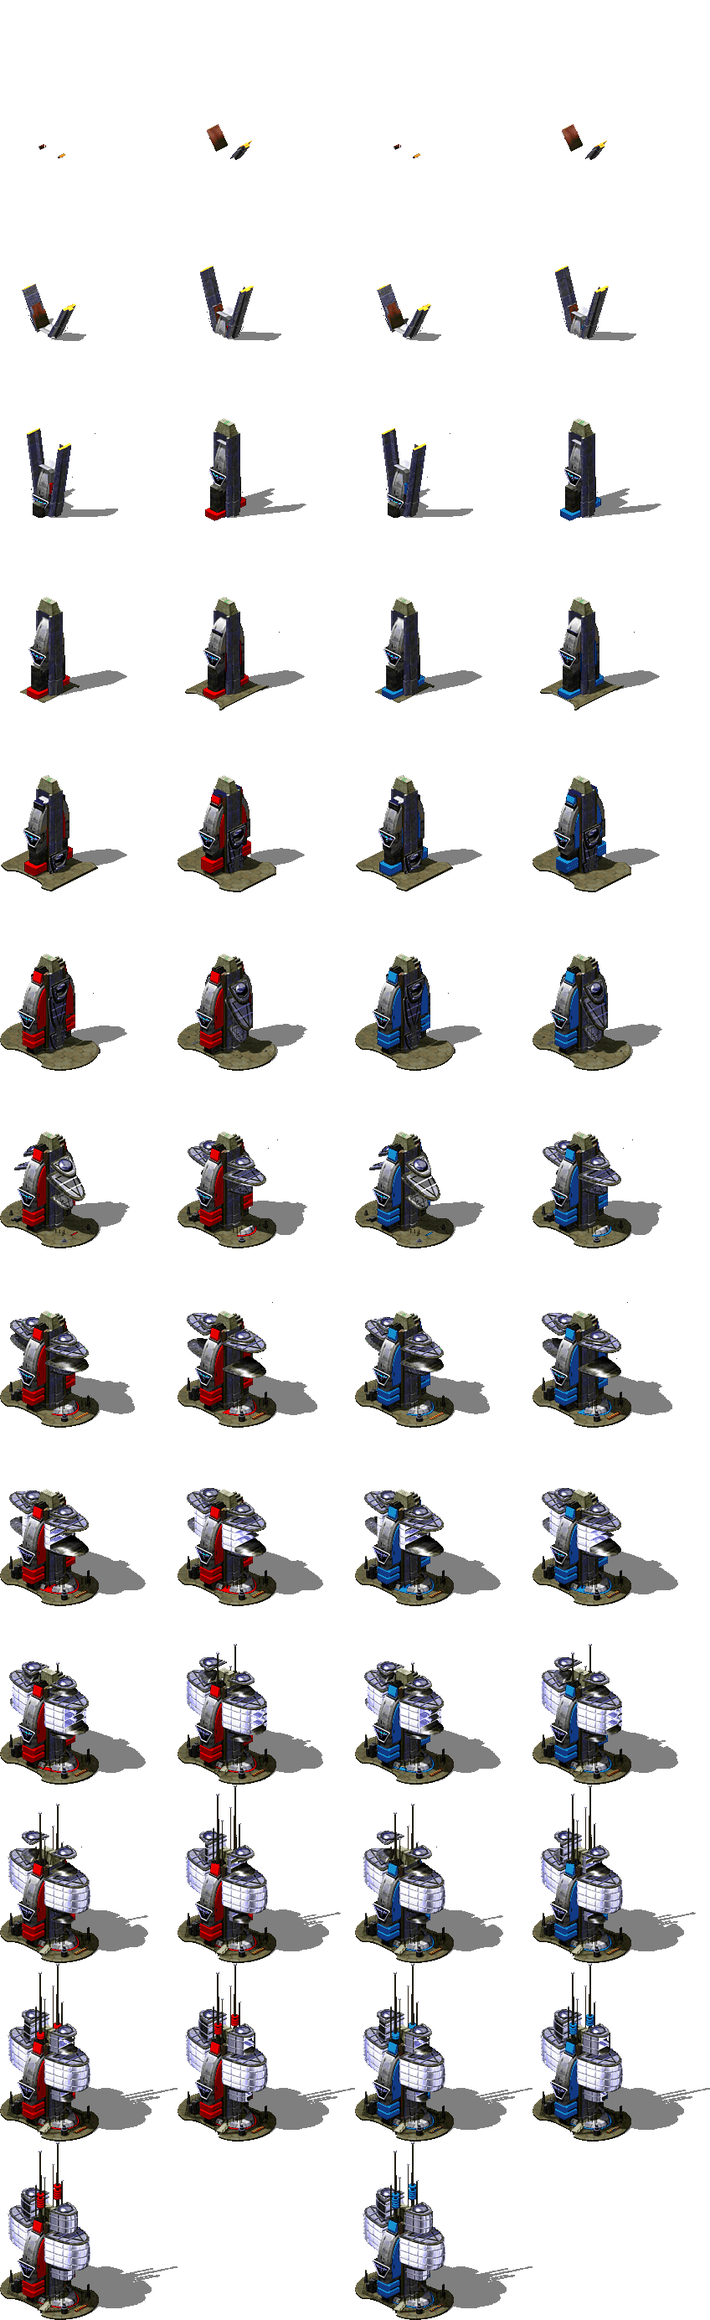
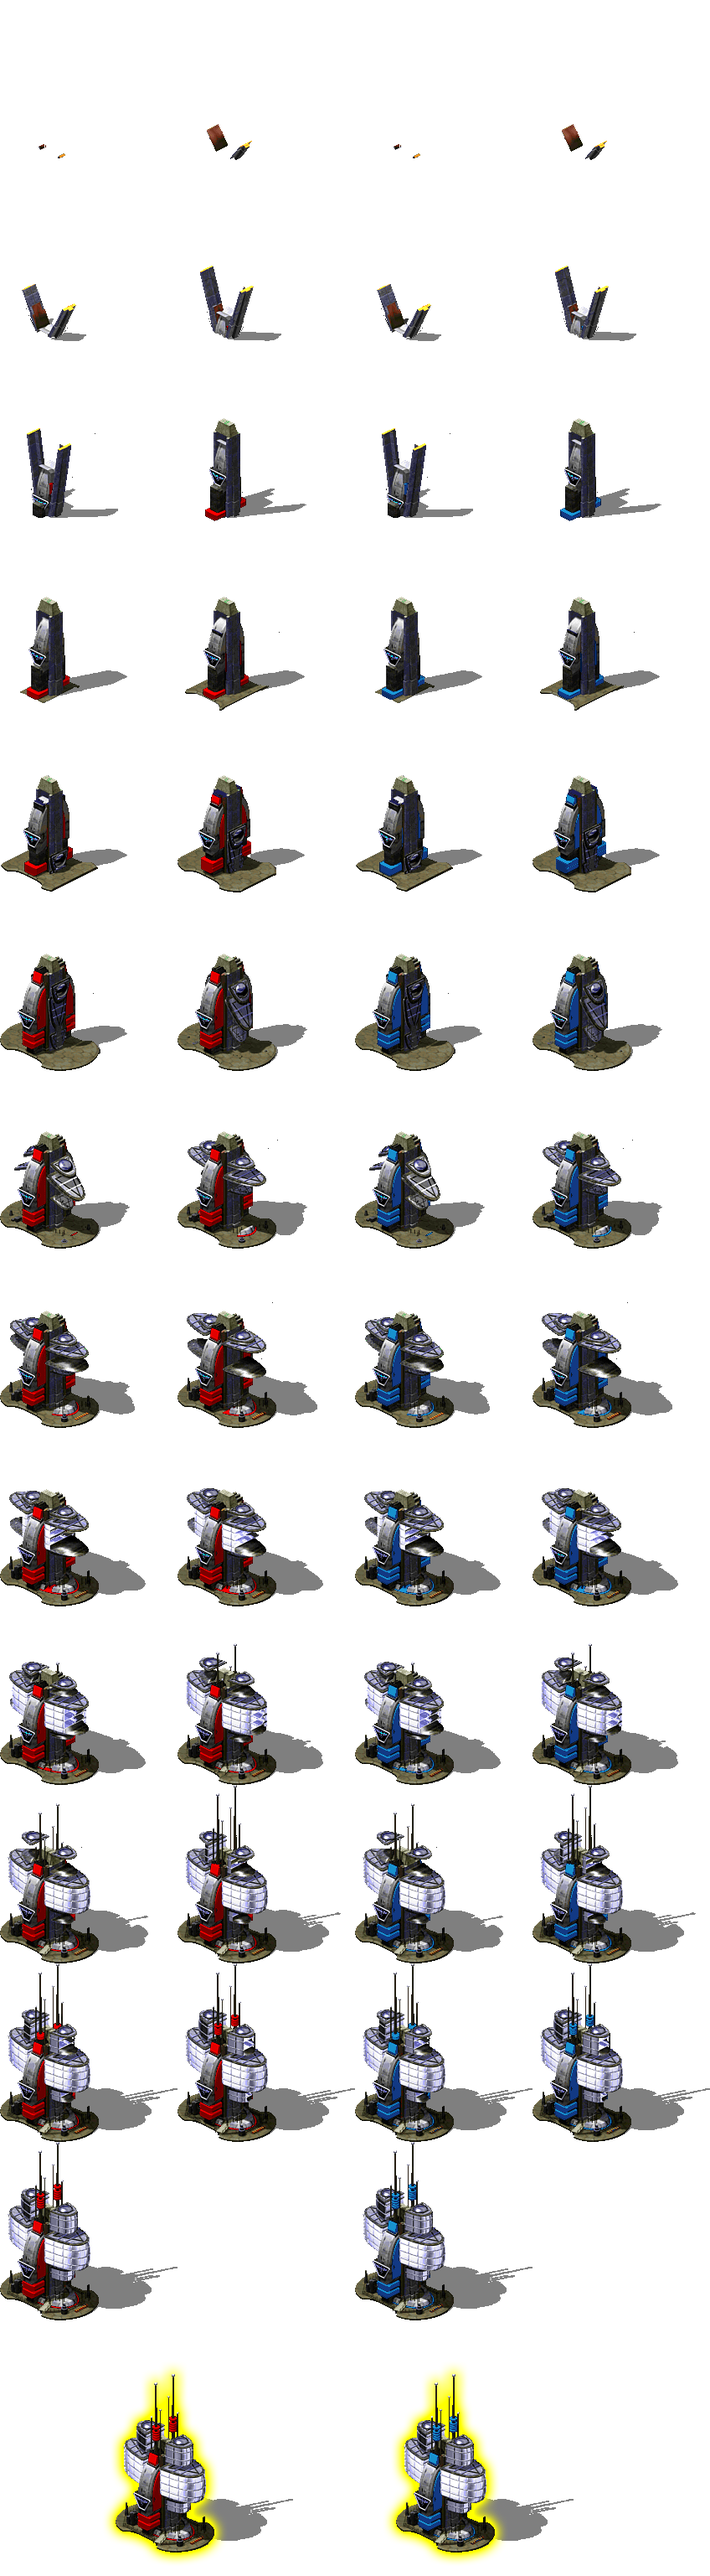
Nearly all glow building sprites implemented

diff --git a/Base/Motor2D/Player.cpp b/Base/Motor2D/Player.cpp
@@ -218,12 +218,8 @@ bool Player::Update(float dt)
 		// DRAW QUAD on SELECTED BUILDING 
 		if (currentUI == CURRENT_UI::CURR_SELECTING_BUILDING)
 		{
-
 			if (In_SelectBuilding->visible == false)
-				In_SelectBuilding->visible = true;
-			
-			DrawBuildingCollider((*building_selected)->type, isPlayer1);
-			
+				In_SelectBuilding->visible = true;			
 		}
 		else
 		{
@@ -1848,57 +1844,4 @@ void Player::UpdateGeneralUI(Entity* building)
 
 }
 
-void Player::DrawBuildingCollider(int type, bool isPlayer1)
-{
-	
-	if(type == Entity::entityType::TOWNHALL && isPlayer1 == true)
-	{
-		selected_texture.x = (*building_selected)->position.first - ((*building_selected)->collider.dimensions.first * 20);
-		selected_texture.y = (*building_selected)->position.second - (*building_selected)->Current_Animation->frames->h + ((*building_selected)->collider.dimensions.second * 20);
-		selected_texture.w = (*building_selected)->Current_Animation->frames->w;
-		selected_texture.h = (*building_selected)->Current_Animation->frames->h;
-	}
-	else if (type == Entity::entityType::TOWNHALL && isPlayer1 == false)
-	{
-		selected_texture.x = (*building_selected)->position.first - ((*building_selected)->collider.dimensions.first * 8);
-		selected_texture.y = (*building_selected)->position.second - (*building_selected)->Current_Animation->frames->h + ((*building_selected)->collider.dimensions.second * 40);
-		selected_texture.w = (*building_selected)->Current_Animation->frames->w;
-		selected_texture.h = (*building_selected)->Current_Animation->frames->h;
-	}
-	else if (type == Entity::entityType::MINES)
-	{
-		selected_texture.x = (*building_selected)->position.first - ((*building_selected)->collider.dimensions.first * 20);
-		selected_texture.y = (*building_selected)->position.second - (*building_selected)->Current_Animation->frames->h + ((*building_selected)->collider.dimensions.second * 20);
-		selected_texture.w = (*building_selected)->Current_Animation->frames->w;
-		selected_texture.h = (*building_selected)->Current_Animation->frames->h;
-	}
-	else if (type == Entity::entityType::BARRACKS)
-	{
-		selected_texture.x = (*building_selected)->position.first - ((*building_selected)->collider.dimensions.first * 20);
-		selected_texture.y = (*building_selected)->position.second - (*building_selected)->Current_Animation->frames->h + ((*building_selected)->collider.dimensions.second * 20);
-		selected_texture.w = (*building_selected)->Current_Animation->frames->w;
-		selected_texture.h = (*building_selected)->Current_Animation->frames->h;
-		(*building_selected)->Current_Animation = (*building_selected)->glow; 
-	}
-	else if (type == Entity::entityType::DEFENSE_AOE)
-	{
-		selected_texture.x = (*building_selected)->position.first - ((*building_selected)->collider.dimensions.first * 20);
-		selected_texture.y = (*building_selected)->position.second - (*building_selected)->Current_Animation->frames->h + ((*building_selected)->collider.dimensions.second * 20);
-		selected_texture.w = (*building_selected)->Current_Animation->frames->w;
-		selected_texture.h = (*building_selected)->Current_Animation->frames->h;
-		(*building_selected)->Current_Animation = (*building_selected)->glow;
-	}
-	else
-	{
-		selected_texture.x = (*building_selected)->position.first;
-		selected_texture.y = (*building_selected)->position.second - (*building_selected)->Current_Animation->frames->h + ((*building_selected)->collider.dimensions.second * 20);
-		selected_texture.w = (*building_selected)->Current_Animation->frames->w;
-		selected_texture.h = (*building_selected)->Current_Animation->frames->h;
-	}
-
-	//if (isPlayer1)
-	//	App->render->DrawQuad(selected_texture, 255, 0, 0, 100, true);
-	//else
-	//	App->render->DrawQuad(selected_texture, 0, 0, 255, 100, true);
-}
 

diff --git a/Base/Motor2D/MainDefense.cpp b/Base/Motor2D/MainDefense.cpp
@@ -195,6 +195,34 @@ bool MainDefense::Update(float dt)
 
 	ChangeAnimation(closest);
 
+	if (fromPlayer1)
+	{
+		if (App->player1->currentUI == Player::CURRENT_UI::CURR_SELECTING_BUILDING && App->player1->GetSelectedBuilding() == this)
+		{
+			if (building->Finished())
+				Current_Animation = glow;
+		}
+		else
+		{
+			if (building->Finished())
+				Current_Animation = idle;
+		}
+	}
+	else
+	{
+		if (App->player2->currentUI == Player::CURRENT_UI::CURR_SELECTING_BUILDING && App->player2->GetSelectedBuilding() == this)
+		{
+			if (building->Finished())
+				Current_Animation = glow;
+		}
+		else
+		{
+			if (building->Finished())
+				Current_Animation = idle;
+		}
+	}
+
+
 	Building::Update(dt);
 
 
@@ -210,19 +238,7 @@ void MainDefense::CleanUp()
 
 void MainDefense::LoadAnimations(bool isPlayer1, string path)
 {
-	//moving = vector<Animation*>(entityDir::MAX, nullptr);
 	shooting = vector<Animation*>(TroopDir::MAX_DIR, nullptr);
-
-	//idle = idle->LoadAnimation(path.data(), (isPlayer1) ? "red_constructing" : "blue_constructing");
-
-	/*moving[NORTH] = moving[NORTH]->LoadAnimation(path.data(), (isPlayer1) ? "red_north" : "blue_north");
-	moving[SOUTH] = moving[SOUTH]->LoadAnimation(path.data(), (isPlayer1) ? "red_south" : "blue_south");
-	moving[EAST] = moving[EAST]->LoadAnimation(path.data(), (isPlayer1) ? "red_east" : "blue_east");
-	moving[WEST] = moving[WEST]->LoadAnimation(path.data(), (isPlayer1) ? "red_west" : "blue_west");
-	moving[NORTHEAST] = moving[NORTHEAST]->LoadAnimation(path.data(), (isPlayer1) ? "red_northeast" : "blue_northeast");
-	moving[NORTHWEST] = moving[NORTHWEST]->LoadAnimation(path.data(), (isPlayer1) ? "red_northwest" : "blue_northwest");
-	moving[SOUTHEAST] = moving[SOUTHEAST]->LoadAnimation(path.data(), (isPlayer1) ? "red_southeast" : "blue_southeast");
-	moving[SOUTHWEST] = moving[SOUTHWEST]->LoadAnimation(path.data(), (isPlayer1) ? "red_southwest" : "blue_southwest");*/
 
 	shooting[NORTH] = shooting[NORTH]->LoadAnimation(path.data(), (isPlayer1) ? "red_N" : "blue_N");
 	shooting[SOUTH] = shooting[SOUTH]->LoadAnimation(path.data(), (isPlayer1) ? "red_S" : "blue_S");
@@ -250,15 +266,18 @@ void MainDefense::LoadAnimations(bool isPlayer1, string path)
 
 	building = building->LoadAnimation(path.data(), (isPlayer1) ? "red_constructing" : "blue_constructing");
 	level1 = level1->LoadAnimation(path.data(), (isPlayer1) ? "red_NE" : "blue_SW");
-	
+	glow = glow->LoadAnimation(path.data(), (isPlayer1) ? "red_glow" : "blue_glow");
+
+
 	idle->speed = 0;
 	level1->speed = 10;
 	building->speed = 10;
-
+	glow->speed = 0; 
 
 	idle->loop = false;
 	building->loop = false;
 	level1->loop = false;
+	glow->loop = false;
 	Current_Animation = building;
 }
 

diff --git a/Base/Motor2D/Mines.cpp b/Base/Motor2D/Mines.cpp
@@ -163,8 +163,32 @@ bool Mines::Update(float dt)
 
 	ChangeAnimation();
 
-	if(Current_Animation->Finished() == true)
-		Current_Animation = level1;
+	if (fromPlayer1)
+	{
+		if (App->player1->currentUI == Player::CURRENT_UI::CURR_SELECTING_BUILDING && App->player1->GetSelectedBuilding() == this)
+		{
+			if (building->Finished())
+				Current_Animation = glow;
+		}
+		else
+		{
+			if (building->Finished())
+				Current_Animation = level1;
+		}
+	}
+	else
+	{
+		if (App->player2->currentUI == Player::CURRENT_UI::CURR_SELECTING_BUILDING && App->player2->GetSelectedBuilding() == this)
+		{
+			if (building->Finished())
+				Current_Animation = glow;
+		}
+		else
+		{
+			if (building->Finished())
+				Current_Animation = level1;
+		}
+	}
 
 	Building::Update(dt);
 
@@ -182,11 +206,16 @@ void Mines::LoadAnimations(bool isPlayer1, string path)
 {
 	building = building->LoadAnimation(path.data(), (isPlayer1) ? "red_constructing" : "blue_constructing");
 	level1 = level1->LoadAnimation(path.data(), (isPlayer1) ? "red_idle" : "blue_idle");
-	//level1->PushBack(building->GetLastAnimationFrame());// level1->LoadAnimation(&path[0], (!isPlayer1) ? "red" : "blue");
+	glow = glow->LoadAnimation(path.data(), (isPlayer1) ? "blue_glow" : "red_glow");
+
 	level1->speed = 3;
 	building->speed = 10;
+	glow->speed = 0; 
+
 	building->loop = false;
 	level1->loop = true;
+	glow->loop = true; 
+
 	Current_Animation = building;
 }
 

diff --git a/Base/Motor2D/Barracks.cpp b/Base/Motor2D/Barracks.cpp
@@ -197,8 +197,31 @@ bool Barracks::Update(float dt)
 
 	ChangeAnimation();
 
-	if (Current_Animation->Finished() == true || Current_Animation != glow)
-		Current_Animation = level1;
+	if (fromPlayer1)
+	{
+		if (App->player1->currentUI == Player::CURRENT_UI::CURR_SELECTING_BUILDING && App->player1->GetSelectedBuilding() == this)
+		{
+			Current_Animation = glow;
+		}
+		else
+		{
+			if (building->Finished())
+				Current_Animation = level1; 
+		}
+	}
+	else
+	{
+		if (App->player2->currentUI == Player::CURRENT_UI::CURR_SELECTING_BUILDING && App->player2->GetSelectedBuilding() == this)
+		{
+			if (building->Finished())
+				Current_Animation = glow;
+		}
+		else
+		{
+			if (building->Finished())
+				Current_Animation = level1;
+		}
+	}
 
 	Building::Update(dt);
 
@@ -208,12 +231,16 @@ bool Barracks::Update(float dt)
 void Barracks::LoadAnimations(bool isPlayer1, string path) {
 	level1 = level1->LoadAnimation(&path[0], (isPlayer1) ? "blue_idle" : "red_idle");
 	building = building->LoadAnimation(&path[0], (isPlayer1) ? "blue_constructing" : "red_constructing");
-	glow = glow->LoadAnimation(&path[0], (isPlayer1) ? "" : "");
+	glow = glow->LoadAnimation(&path[0], (isPlayer1) ? "blue_glow" : "red_glow");
+
 	level1->speed = 5;
 	building->speed = 8;
+	glow->speed = 0; 
 
 	building->loop = false;
+	level1->loop = true;
 	glow->loop = true;
+
 	Current_Animation = building;
 };
 

diff --git a/Base/Motor2D/CommandCenter.cpp b/Base/Motor2D/CommandCenter.cpp
@@ -178,6 +178,33 @@ bool CmdCenter::Update(float dt)
 	
 	ChangeAnimation();
 
+	if (fromPlayer1)
+	{
+		if (App->player1->currentUI == Player::CURRENT_UI::CURR_SELECTING_BUILDING && App->player1->GetSelectedBuilding() == this)
+		{
+			if (building->Finished())
+				Current_Animation = glow;
+		}
+		else
+		{
+			if (building->Finished())
+				Current_Animation = level1;
+		}
+	}
+	else
+	{
+		if (App->player2->currentUI == Player::CURRENT_UI::CURR_SELECTING_BUILDING && App->player2->GetSelectedBuilding() == this)
+		{
+			if (building->Finished())
+				Current_Animation = glow;
+		}
+		else
+		{
+			if (building->Finished())
+				Current_Animation = level1;
+		}
+	}
+
 	Building::Update(dt);
 
 	return true;
@@ -200,8 +227,8 @@ void CmdCenter::CleanUp()
 void CmdCenter::LoadAnimations(bool isPlayer1, string path)
 {
 	building = building->LoadAnimation(path.data(), (isPlayer1) ? "red" : "blue");
-	level1 = level1->LoadAnimation(path.data(), (isPlayer1) ? "red" : "blue");
-	//level1->PushBack(building->GetLastAnimationFrame());// level1->LoadAnimation(&path[0], (!isPlayer1) ? "red" : "blue");
+	level1 = level1->LoadAnimation(path.data(), (isPlayer1) ? "red_idle" : "blue_idle");
+	glow = glow->LoadAnimation(path.data(), (isPlayer1) ? "red_glow" : "blue_glow"); 
 	level1->speed = 10;
 	building->speed = 10;
 	building->loop = false;

diff --git a/Base/Motor2D/Townhall.cpp b/Base/Motor2D/Townhall.cpp
@@ -182,6 +182,29 @@ bool Townhall::Update(float dt)
 		App->scene->MatchDraw();
 	}
 
+	if (fromPlayer1)
+	{
+		if (App->player1->currentUI == Player::CURRENT_UI::CURR_SELECTING_BUILDING && App->player1->GetSelectedBuilding() == this)
+		{
+			Current_Animation = glow;
+		}
+		else
+		{
+			Current_Animation = building;
+		}
+	}
+	else
+	{
+		if (App->player2->currentUI == Player::CURRENT_UI::CURR_SELECTING_BUILDING && App->player2->GetSelectedBuilding() == this)
+		{
+			Current_Animation = glow;
+		}
+		else
+		{
+			Current_Animation = building;
+		}
+	}
+
 	Building::Update(dt);
 
 	return true;
@@ -201,10 +224,12 @@ void Townhall::LoadAnimations(bool isPlayer1, string path)
 	if (isPlayer1)
 	{
 		building = building->LoadAnimation(path.data(), "soviet");
+		glow = glow->LoadAnimation(path.data(), "allied_glow"); 
 	}
 	else
 	{
 		building = building->LoadAnimation(path.data(), "allied");
+		glow = glow->LoadAnimation(path.data(), "soviet_glow");
 	}
 
 	building->speed = 10;

diff --git a/Base/Motor2D/DefenseAOE.cpp b/Base/Motor2D/DefenseAOE.cpp
@@ -193,8 +193,30 @@ bool DefenseAoe::Update(float dt)
 		}
 	}
 
-	if (Current_Animation->Finished() == true && Current_Animation != glow)
-		Current_Animation = level1;
+	if (fromPlayer1)
+	{
+		if (App->player1->currentUI == Player::CURRENT_UI::CURR_SELECTING_BUILDING && App->player1->GetSelectedBuilding() == this)
+		{
+			Current_Animation = glow;
+		}
+		else
+		{
+			if (building->Finished())
+				Current_Animation = level1;
+		}
+	}
+	else
+	{
+		if (App->player2->currentUI == Player::CURRENT_UI::CURR_SELECTING_BUILDING && App->player2->GetSelectedBuilding() == this)
+		{
+			Current_Animation = glow;
+		}
+		else
+		{
+			if (building->Finished())
+				Current_Animation = level1;
+		}
+	}
 
 	Building::Update(dt);
 	
@@ -225,6 +247,7 @@ void DefenseAoe::LoadAnimations(bool isPlayer1, string path)
 
 	level1->speed = 7;
 	building->speed = 5;
+	glow->speed = 0; 
 
 	building->loop = false;
 	level1->loop = true;

diff --git a/Base/Motor2D/Player.h b/Base/Motor2D/Player.h
@@ -99,7 +99,7 @@ public:
 	void CreateTroop(int type, int number);
 	void CreateAbility(int type, int number);
 
-	void DrawBuildingCollider(int type, bool isPlayer1);
+	Building* GetSelectedBuilding() { return (*building_selected); };
 
 	bool CheckBuildingPos();
 	Collider GetCollider(pair<int, int> dimensions, pair<int,int> topTile_pos);
